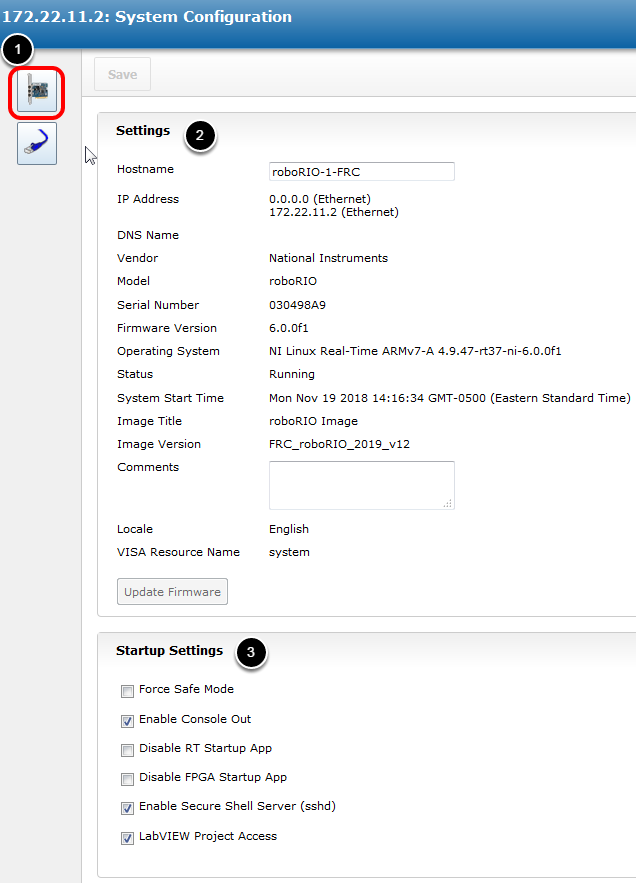
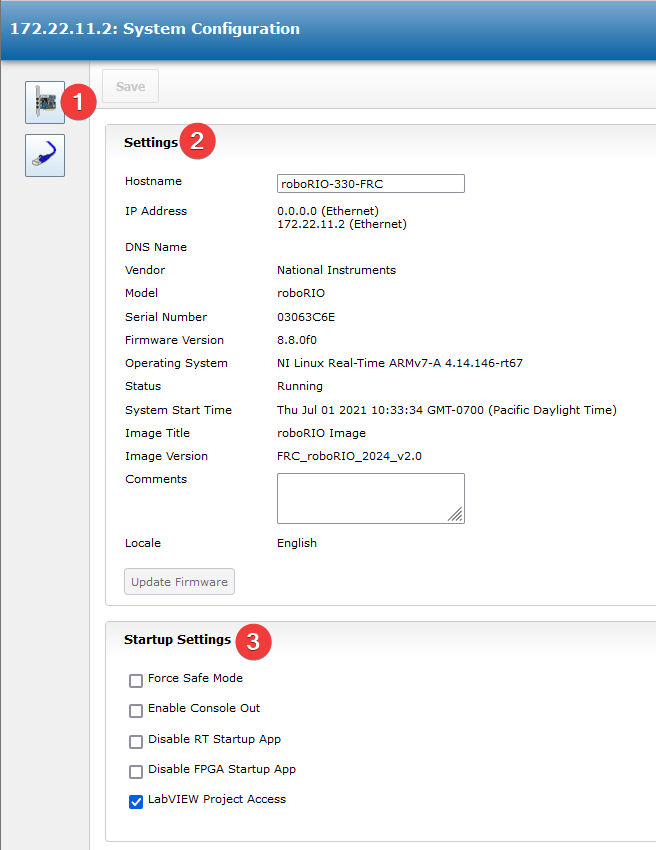
Update roborio webdashobard for 2024

diff --git a/source/docs/software/roborio-info/roborio-web-dashboard.rst b/source/docs/software/roborio-info/roborio-web-dashboard.rst
@@ -4,10 +4,6 @@ roboRIO Web Dashboard
 The roboRIO web dashboard is a webpage built into the roboRIO that can
 be used for checking status and updating settings of the roboRIO.
 
-Users may encounter issues using IE (compatibility).
-Alternate browsers such as Google Chrome or
-Mozilla Firefox are recommended for the best experience.
-
 Opening the WebDash
 -------------------
 
@@ -53,21 +49,15 @@ Startup Settings
    use the Reset button on the roboRIO to put the device into Safe Mode
    instead (with power already applied, hold the rest button for 5
    seconds). **Default is unchecked.**
--  Enable Console Out - This enables the on-board RS232 port to be used
-   as a Console output. It is recommended to leave this enabled unless
-   you are using this port to talk to a serial device (note that this
-   port uses RS232 levels and should not be connected to many
-   microcontrollers which use TTL levels). **Default is checked.**
+-  Enable Console Out - This enables the on-board RS232 port to be used as a
+   Console output. This port uses RS232 levels and should not be connected to
+   many microcontrollers which use TTL levels). **Default is unchecked.**
 -  Disable RT Startup App - Checking this box disables code from running
    at startup. This may be used for troubleshooting if you find the
    roboRIO is unresponsive to new program download. Default is unchecked
 -  Disable FPGA Startup App - **This box should not be checked.**
--  Enable Secure Shell Server (sshd) - **It is recommended to leave this
-   box checked.** This setting enables SSH which is a way to remotely
-   access a console on the roboRIO. Unchecking this box will prevent C++
-   and Java teams from loading code onto the roboRIO.
--  LabVIEW Project Access -\*\* It is recommended to leave this box
-   checked.\*\* This setting allows LabVIEW projects to access the
+-  LabVIEW Project Access - **It is recommended to leave this box
+   checked. **This setting allows LabVIEW projects to access the
    roboRIO.
 
 Network Configuration
